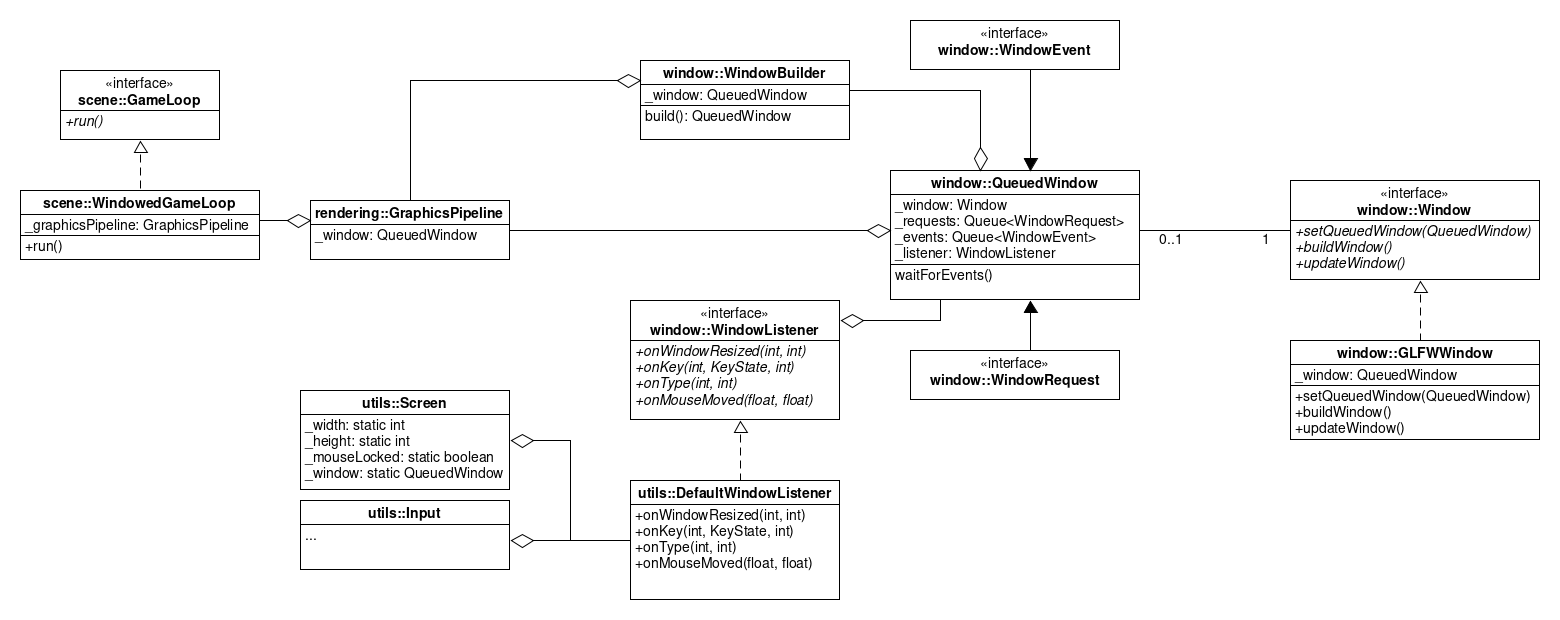
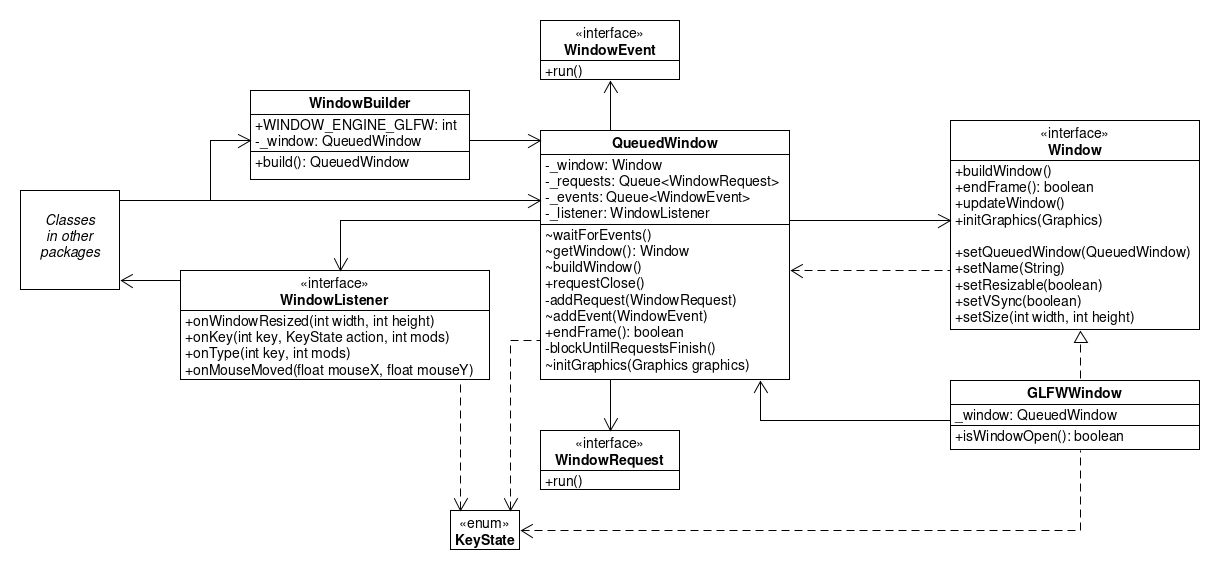
Added UML class diagram descriptions.

Changed region(s): [[0.0, 0.0298, 0.9967, 0.9842], [0.0311, 0.0895, 0.1557, 0.2386], [0.0934, 0.4772, 0.1246, 0.507]]

diff --git a/documentation/report.md b/documentation/report.md
@@ -105,8 +105,12 @@ The entire refactoring diff can be found [here](https://github.com/software-fund
 ### UML diagram before refactoring
 ![UML diagram before refactoring](./old_uml.png)
 
+Here we see the codependency between QueuedWindow and Window/GLFWWindow. GLFWWindow knows a lot about the internals of QueuedWindow, even though QueuedWindow is the one that's supposed to manage GLFWWindow. We also see that the implementation of a new window engine besides GLFW would introduce a lot of code duplication, since the behaviour of several methods, such as setName and setSize, are common across all window engines.
+
 ### UML diagram after refactoring
 ![UML diagram after refactoring](./new_uml.png)
+
+By adding AbstractDesktopWindow, we have, among other things, provided the implementation for common methods to avoid code duplication if a new window engine is added. We also see that the other new class, WindowCallback, handles the communication from the Window to the WindowManager. Notice that the confusing name QueuedWindow was changed to WindowManager.
 
 ## Test logs
 
